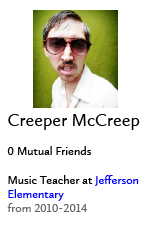
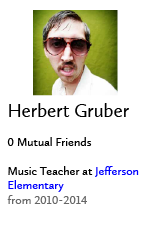
Update Images for Friend class

diff --git a/bin/OurController1430094980275.html b/bin/OurController1430094980275.html
@@ -1,0 +1,7 @@
+<html>
+<meta http-equiv="Content-Type" content="text/html; charset=UTF-8"/>
+<body>
+<applet code=OurController.class width="1000" height="750" >
+</applet>
+</body>
+</html>

diff --git a/Quizzes/FriendTest.java b/Quizzes/FriendTest.java
@@ -32,6 +32,11 @@ public class FriendTest extends JPanel implements MyQuestion {
 	// Get image URLs
 	URL backgroundURL = OurController.class.getResource("InfoQuiz-01.png");
 	URL friend1URL = OurController.class.getResource("Friend1-01.png");
+	URL friend2URL = OurController.class.getResource("Friend2-01.png");
+	URL friend3URL = OurController.class.getResource("Friend3-01.png");
+	URL friend4URL = OurController.class.getResource("Friend4-01.png");
+	URL friend5URL = OurController.class.getResource("Friend5-01.png");
+	URL friend6URL = OurController.class.getResource("Friend6-01.png");
 	URL submitURL = OurController.class.getResource("Submit Button.png");
 
 	// Create button of each friend to add
@@ -74,11 +79,11 @@ public class FriendTest extends JPanel implements MyQuestion {
 	    	
 	    	//add image button #1
 	    	friendImage1 = ImageIO.read(friend1URL);
-	    	friendImage2 = ImageIO.read(friend1URL); 
-	    	friendImage3 = ImageIO.read(friend1URL);
-	    	friendImage4 = ImageIO.read(friend1URL);
-	    	friendImage5 = ImageIO.read(friend1URL);
-	    	friendImage6 = ImageIO.read(friend1URL);
+	    	friendImage2 = ImageIO.read(friend2URL); 
+	    	friendImage3 = ImageIO.read(friend3URL);
+	    	friendImage4 = ImageIO.read(friend4URL);
+	    	friendImage5 = ImageIO.read(friend5URL);
+	    	friendImage6 = ImageIO.read(friend6URL);
 	    	
 	    } catch (IOException e) {
 	    	e.printStackTrace();
@@ -128,7 +133,7 @@ public class FriendTest extends JPanel implements MyQuestion {
     	friendButton2.setOpaque(false);
     	friendButton2.setBorderPainted(false);
     	friendButton2.setContentAreaFilled(false);
-        ImageIcon friend2 = new ImageIcon(friendImage1);
+        ImageIcon friend2 = new ImageIcon(friendImage2);
         friendButton2.setIcon(friend2);
     	
     	// Add image button #3
@@ -136,7 +141,7 @@ public class FriendTest extends JPanel implements MyQuestion {
     	friendButton3.setOpaque(false);
     	friendButton3.setBorderPainted(false);
     	friendButton3.setContentAreaFilled(false);
-        ImageIcon friend3 = new ImageIcon(friendImage1);
+        ImageIcon friend3 = new ImageIcon(friendImage3);
         friendButton3.setIcon(friend3);
     	
     	// Add image button #4  	
@@ -144,7 +149,7 @@ public class FriendTest extends JPanel implements MyQuestion {
     	friendButton4.setOpaque(false);
     	friendButton4.setBorderPainted(false);
     	friendButton4.setContentAreaFilled(false);
-        ImageIcon friend4 = new ImageIcon(friendImage1);
+        ImageIcon friend4 = new ImageIcon(friendImage4);
         friendButton4.setIcon(friend4);
     	
     	// Add image button #5    	
@@ -152,7 +157,7 @@ public class FriendTest extends JPanel implements MyQuestion {
     	friendButton5.setOpaque(false);
     	friendButton5.setBorderPainted(false);
     	friendButton5.setContentAreaFilled(false);
-        ImageIcon friend5 = new ImageIcon(friendImage1);
+        ImageIcon friend5 = new ImageIcon(friendImage5);
         friendButton5.setIcon(friend5);
     	
     	// Add image button #6 	
@@ -160,7 +165,7 @@ public class FriendTest extends JPanel implements MyQuestion {
     	friendButton6.setOpaque(false);
     	friendButton6.setBorderPainted(false);
     	friendButton6.setContentAreaFilled(false);
-        ImageIcon friend6 = new ImageIcon(friendImage1);
+        ImageIcon friend6 = new ImageIcon(friendImage6);
         friendButton6.setIcon(friend6);		
     	
 	    //set the size and layout of the panel
